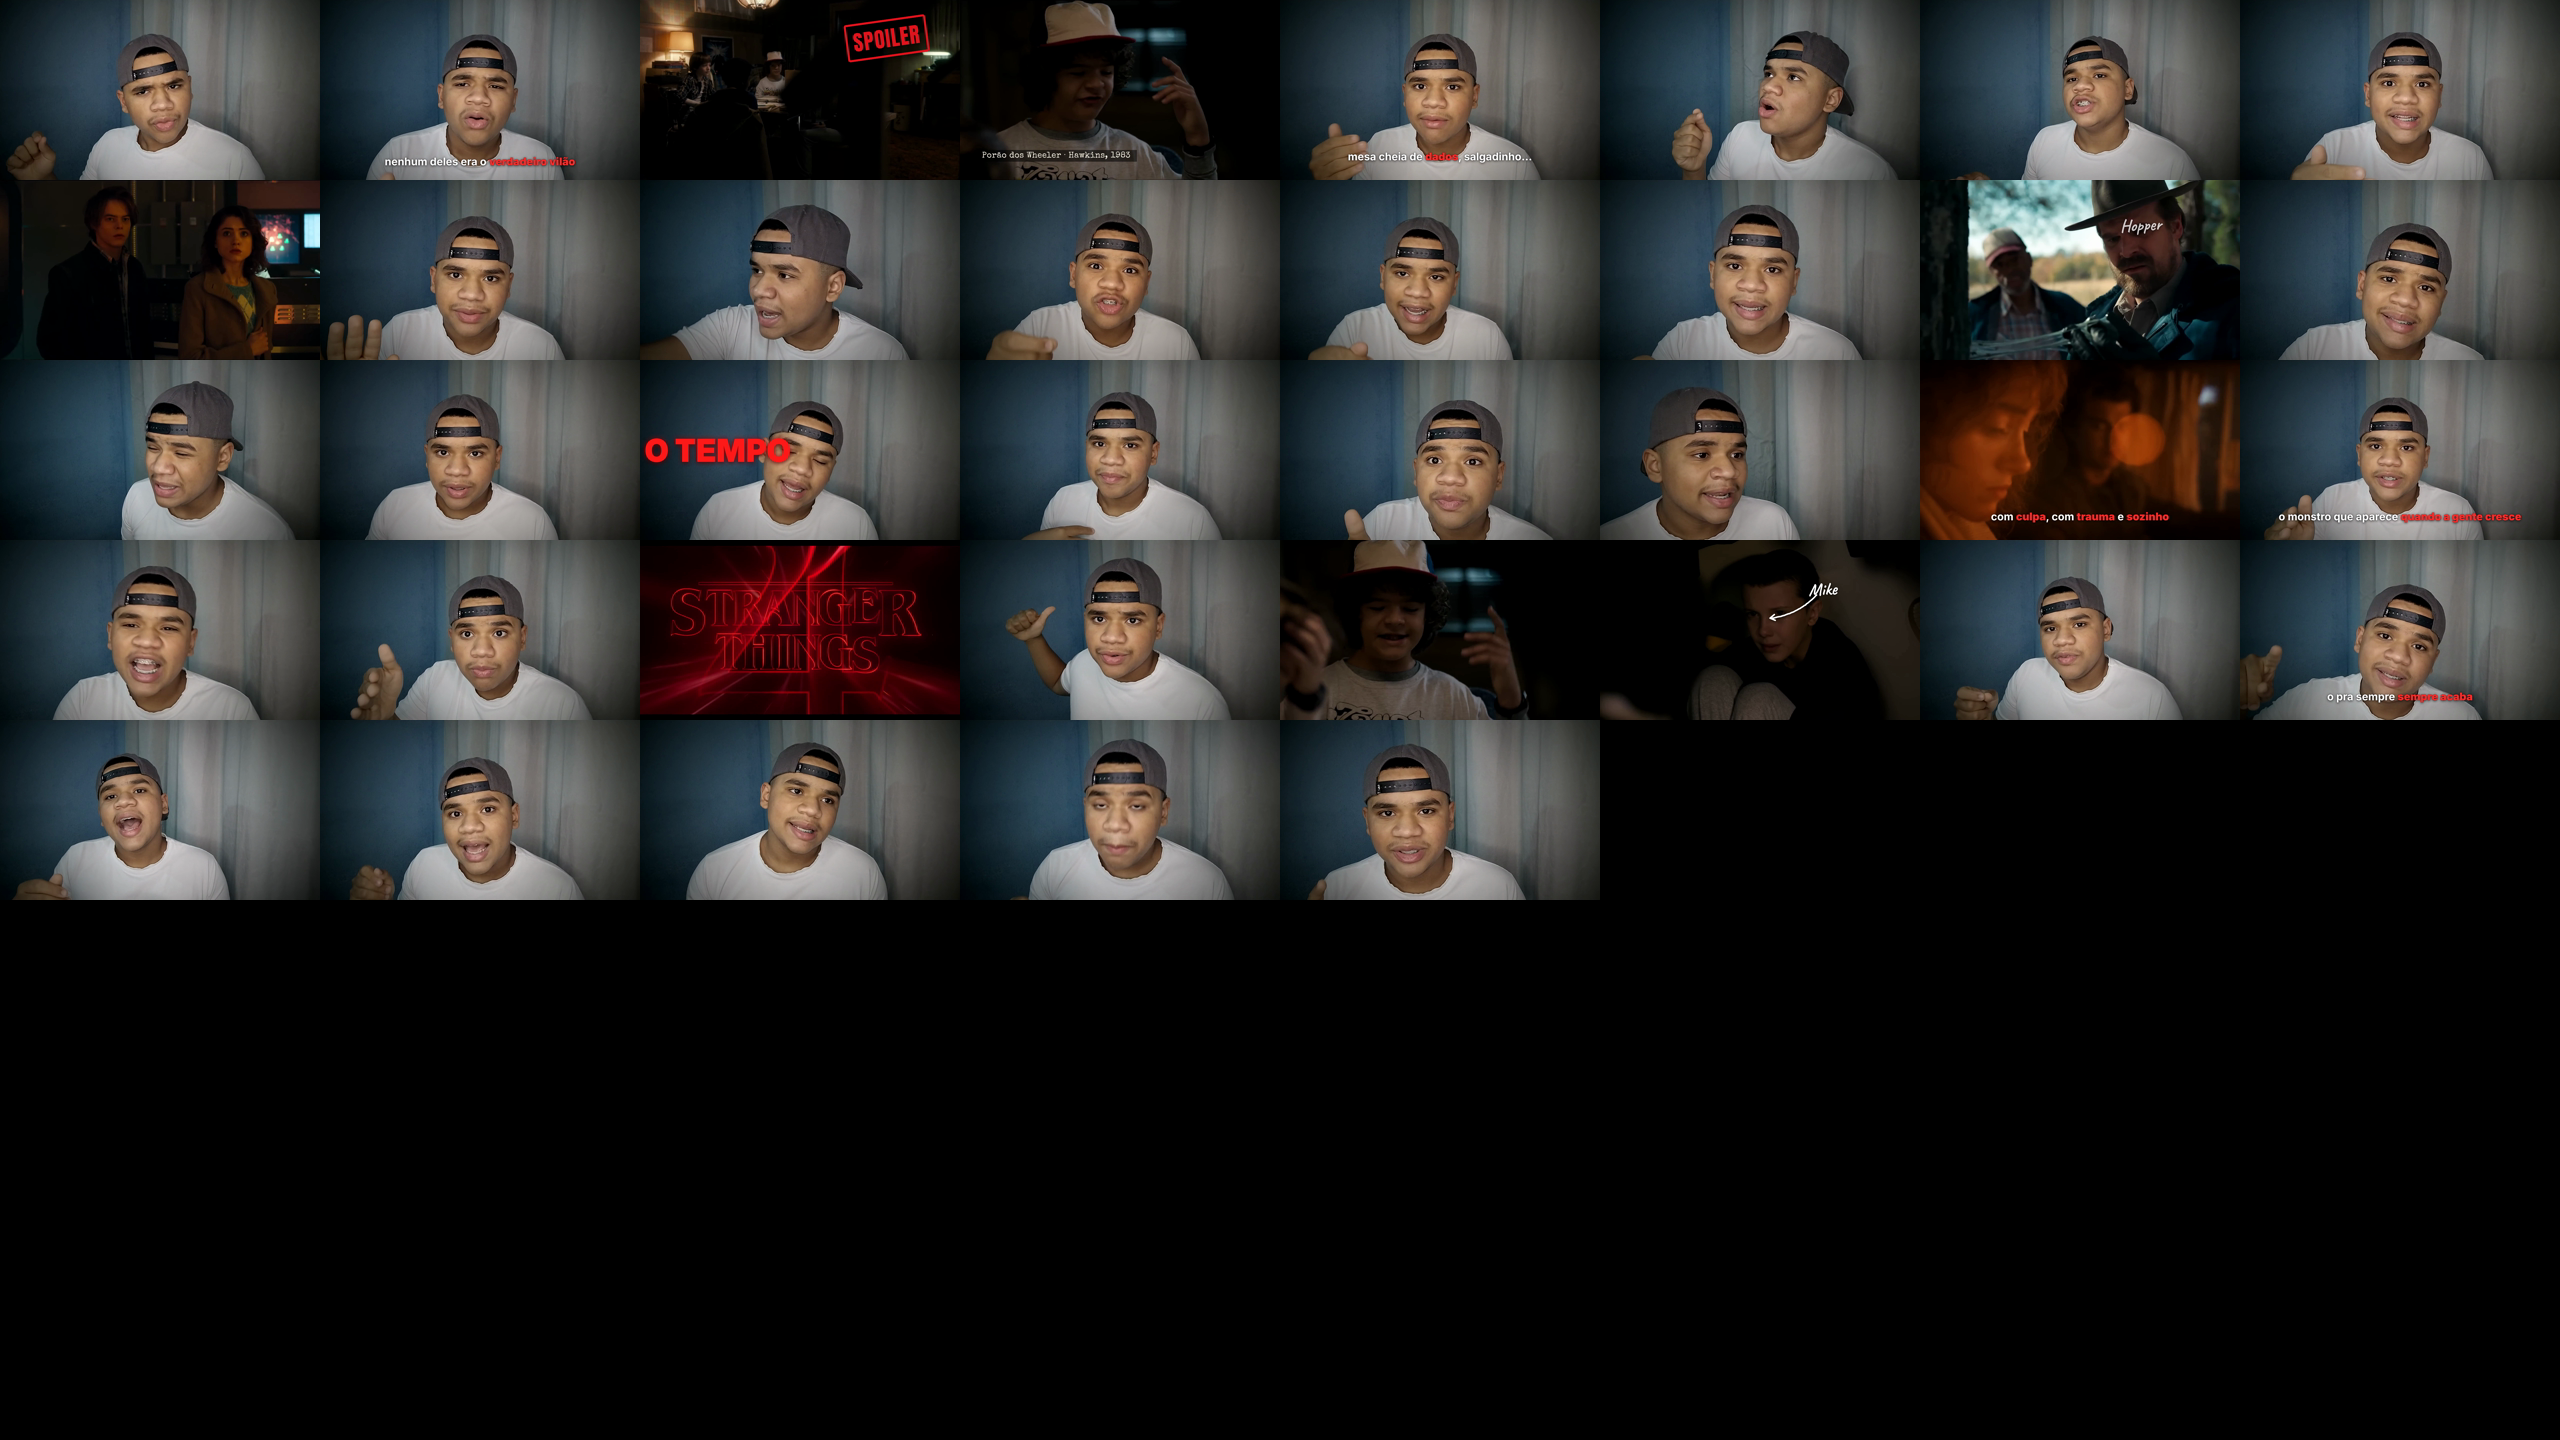
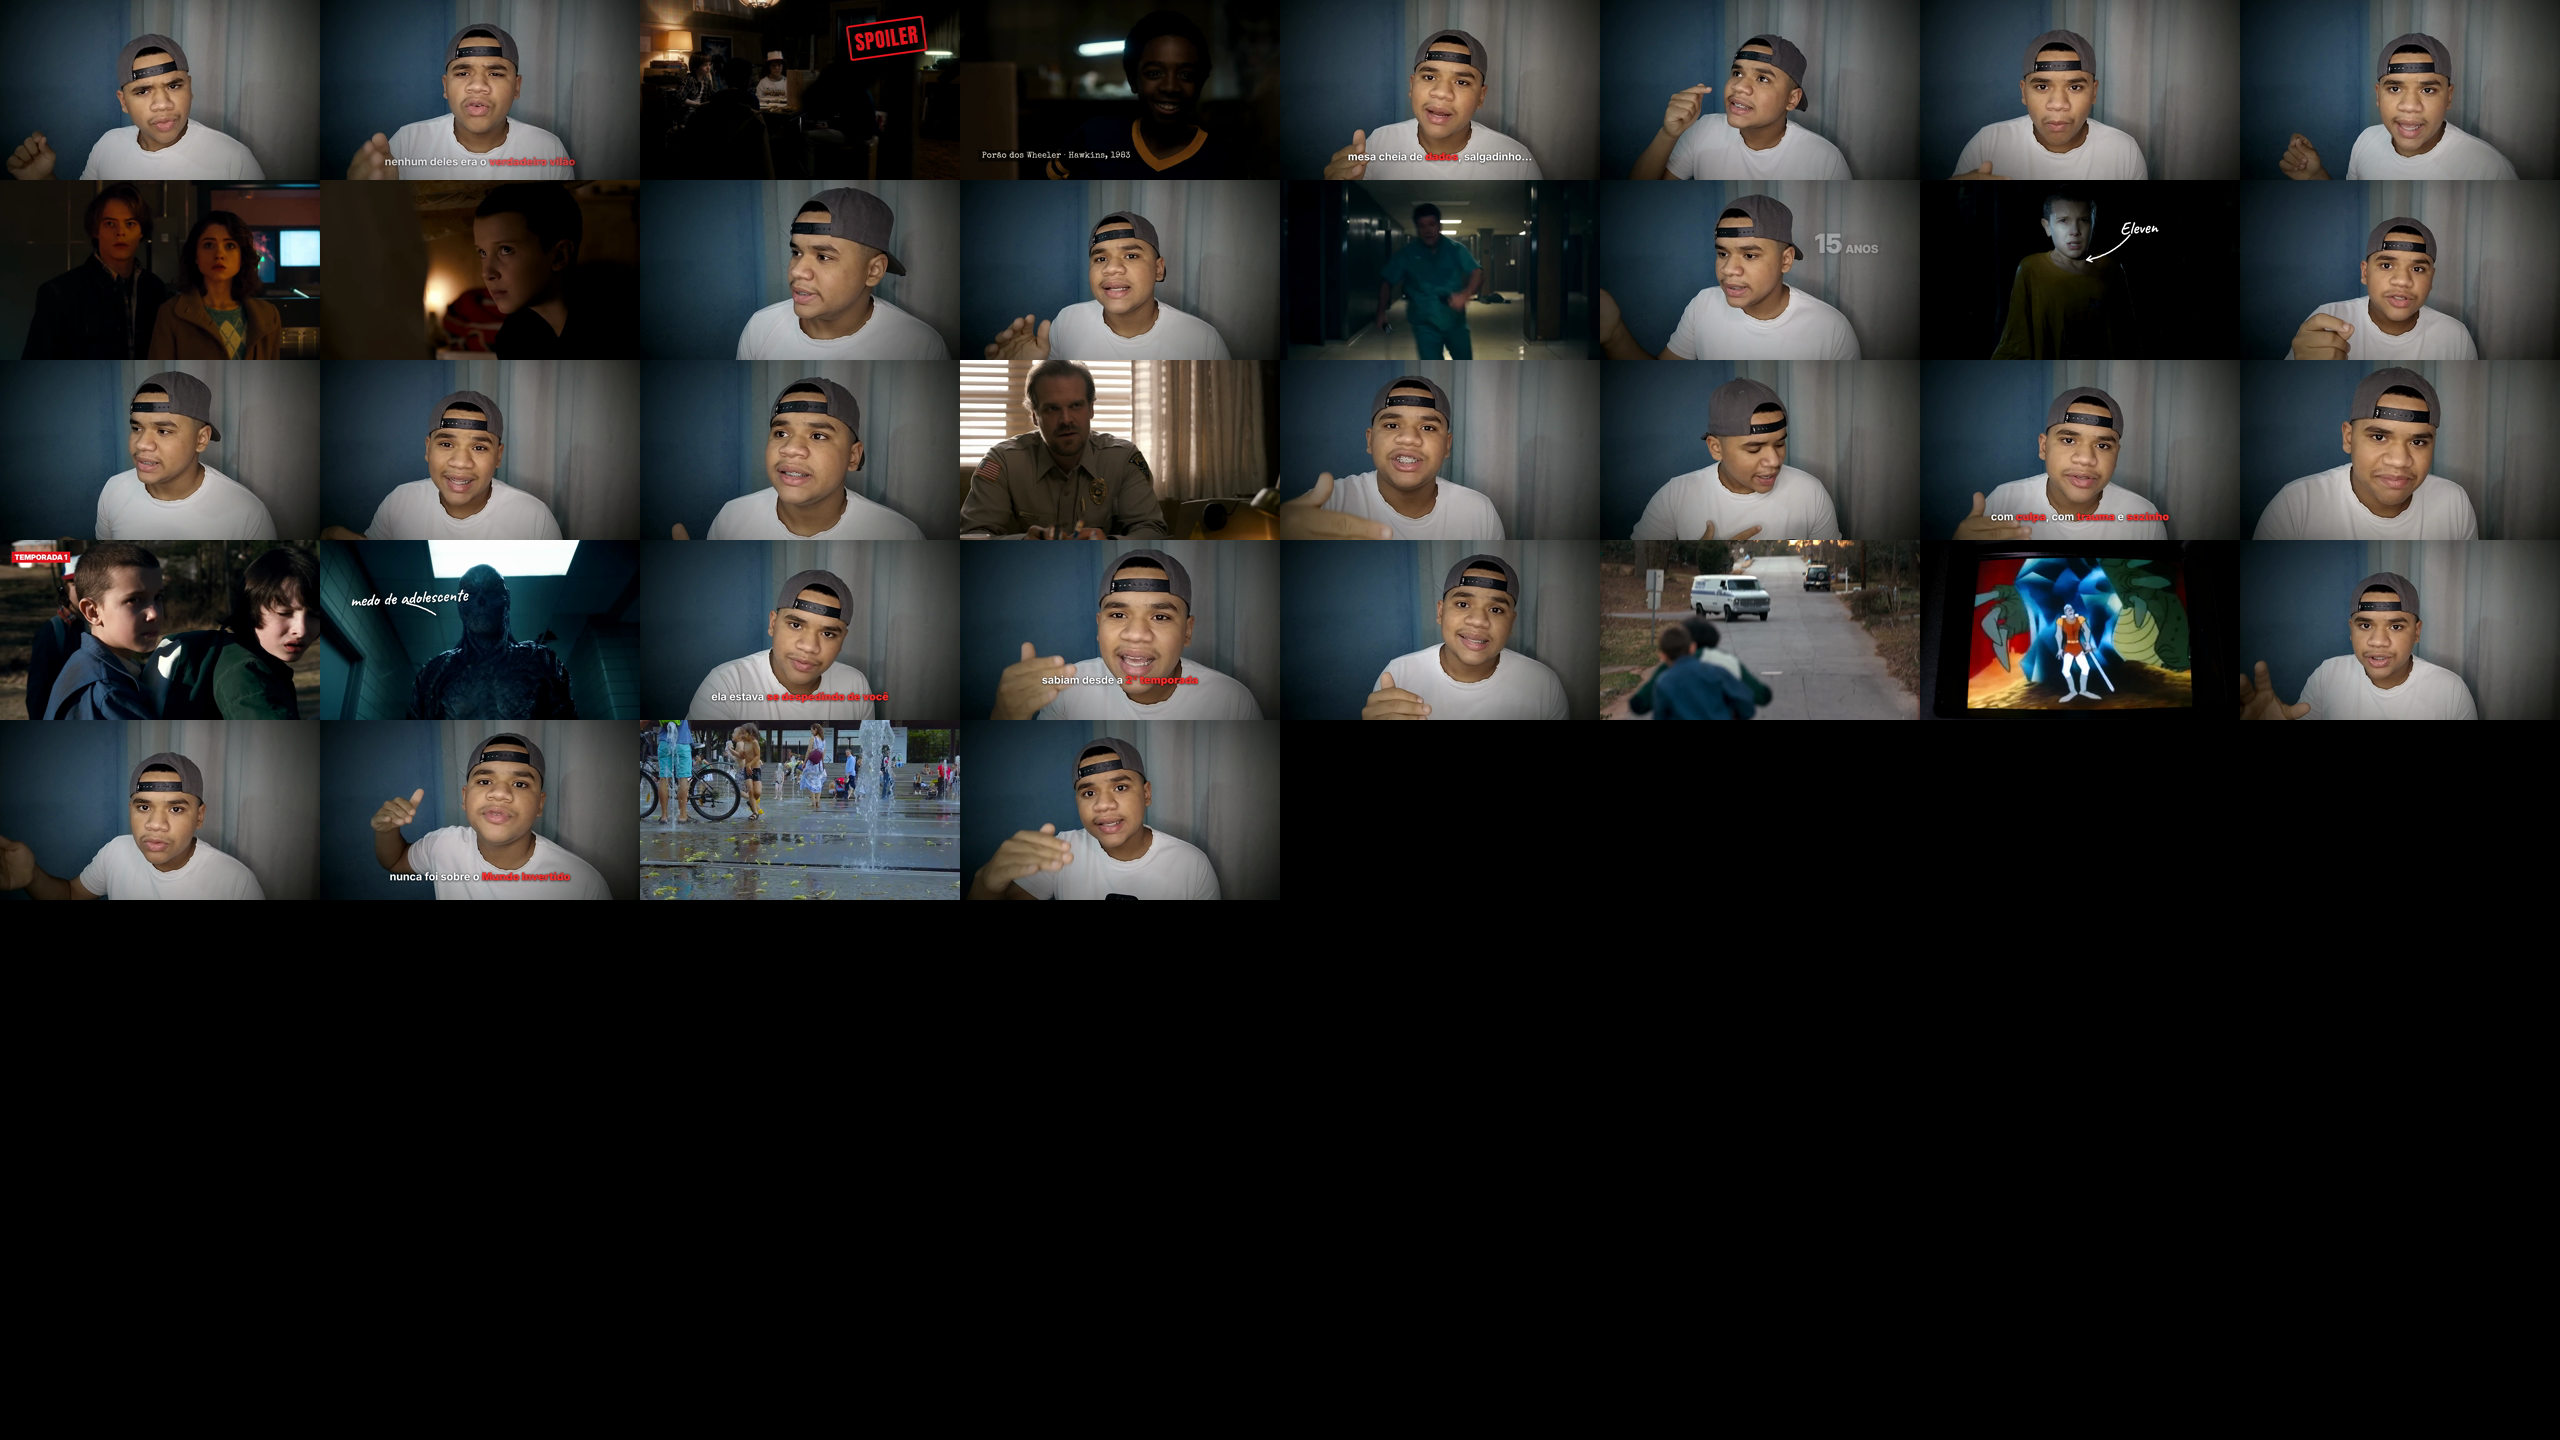
Vídeo 01 v2 entregue: capítulos atualizados, decisões no CANAL.md
Claude-Session: https://claude.ai/code/session_0154K5XV25PrkL5BsHsfU7zu

diff --git a/canais/luiz-telico/CANAL.md b/canais/luiz-telico/CANAL.md
@@ -53,3 +53,4 @@ Ver `referencia/titulos.md`. Resumo: obra famosa no começo; contradiz o que o p
 - 2026-11-18: Formato da amostra de 30 s APROVADO (rosto + cenas com zoom, nomes à mão com seta, frase-chave embaixo, carimbo, máquina de escrever, trilha synth original, efeitos contidos). Fontes do Google (Caveat, Special Elite, Anton) instaladas com autorização.
 - 2026-11-18: Vídeo final: nenhum trecho preto, nenhuma respiração/estalo de boca/rosto parado (repetido pelo aluno como "muito importante"). Conferir com blackdetect + checar_respiracao.py antes de entregar.
 - 2026-11-18: Imagens de trailer: conferir o 1º e o último quadro de cada cena (trailer tem transição preta e troca de plano rápida).
+- 2026-11-18 (correções do aluno no vídeo 01): (1) zoom no rosto SEGUE o rosto (ferramentas/achar_rosto.py) e deixa o boné inteiro com folga em cima — nunca rosto baixo/cortado; (2) etiqueta com seta só dentro do plano do personagem: usar os cortes reais do trailer (filtrar raio/luz piscando) e conferir com ferramentas/conferir_setas.py; (3) zero respiração: voz = grave + tom regular (ferramentas/vozeamento.py), mas nunca cortar dentro de palavra transcrita (voz soprada do "Mike"); (4) conferir a IDENTIDADE do personagem antes de usar o plano (a "Max" de 3:45 era a Nancy).
